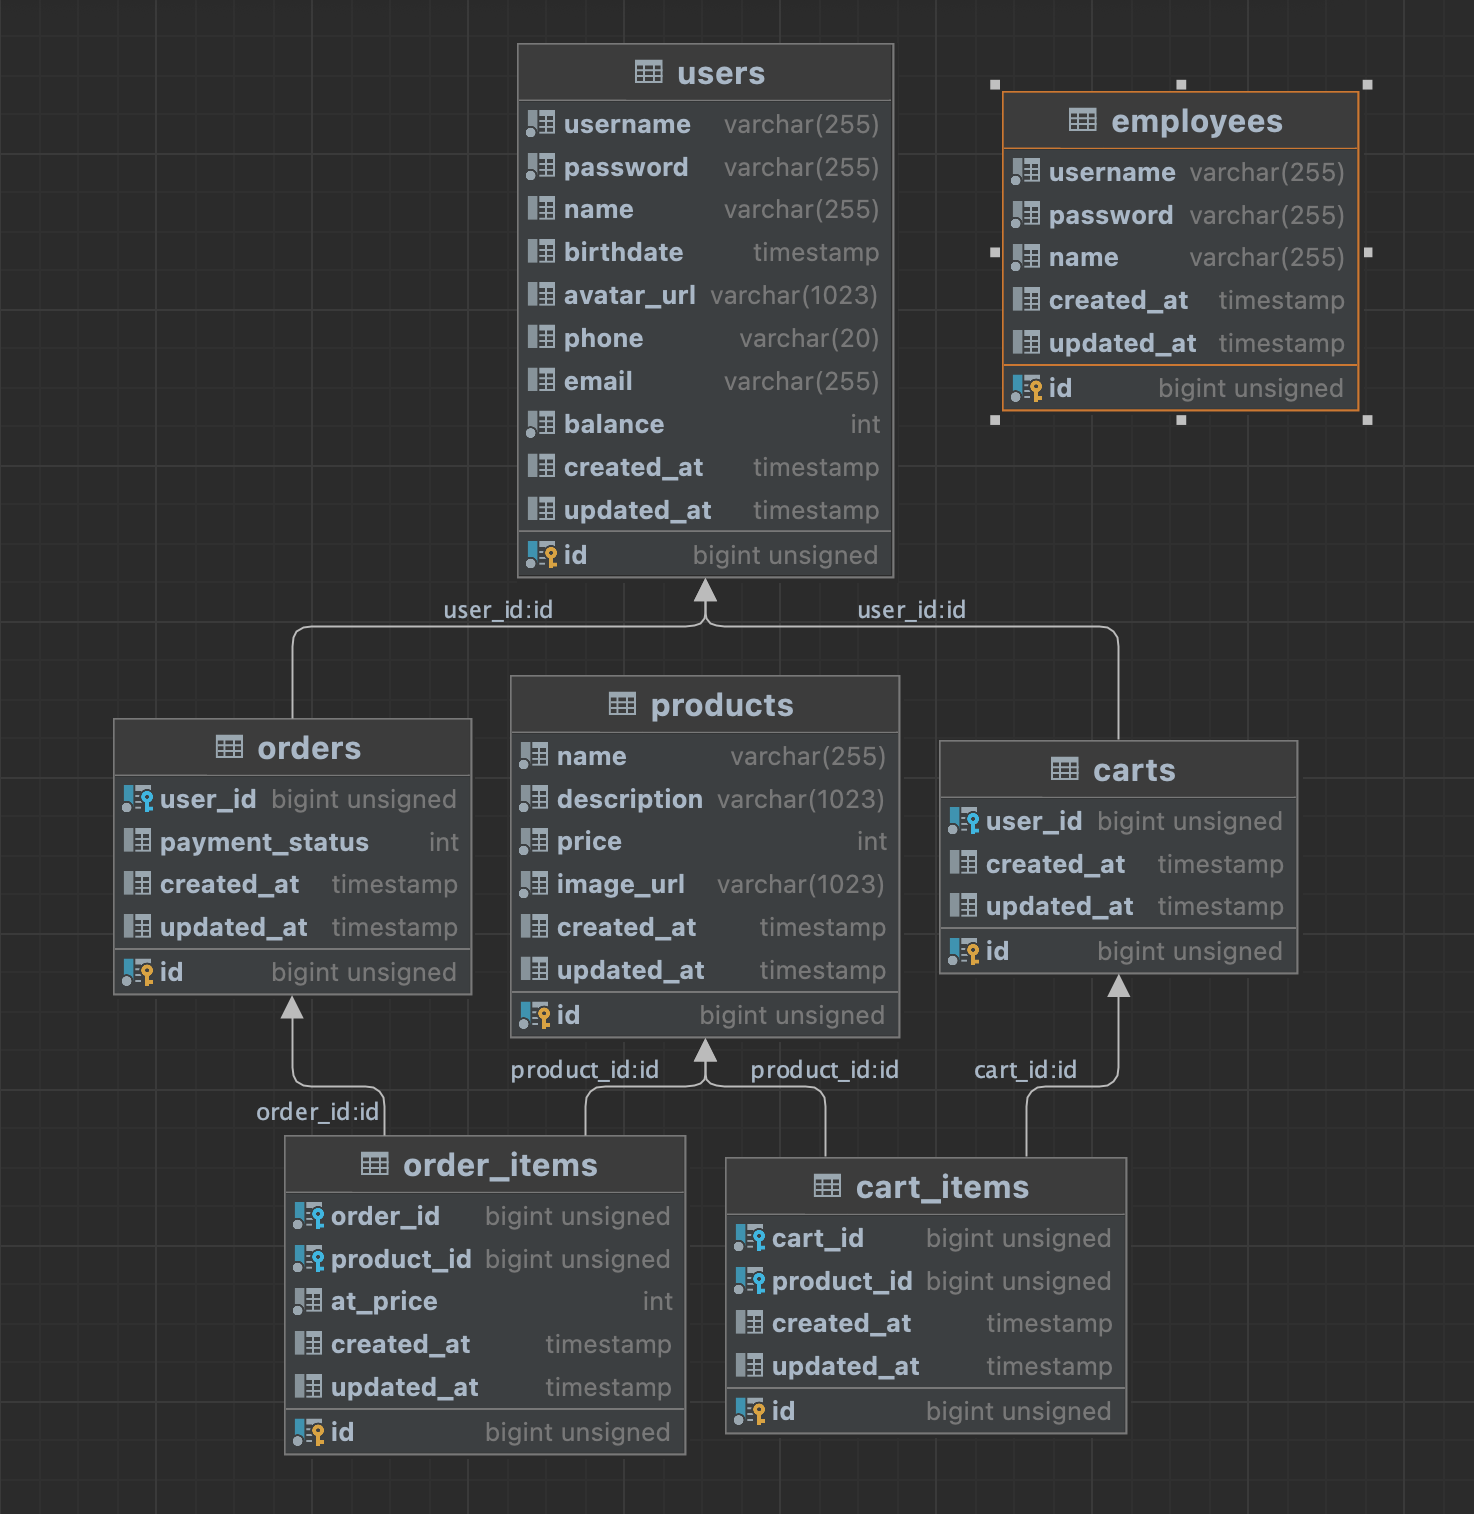
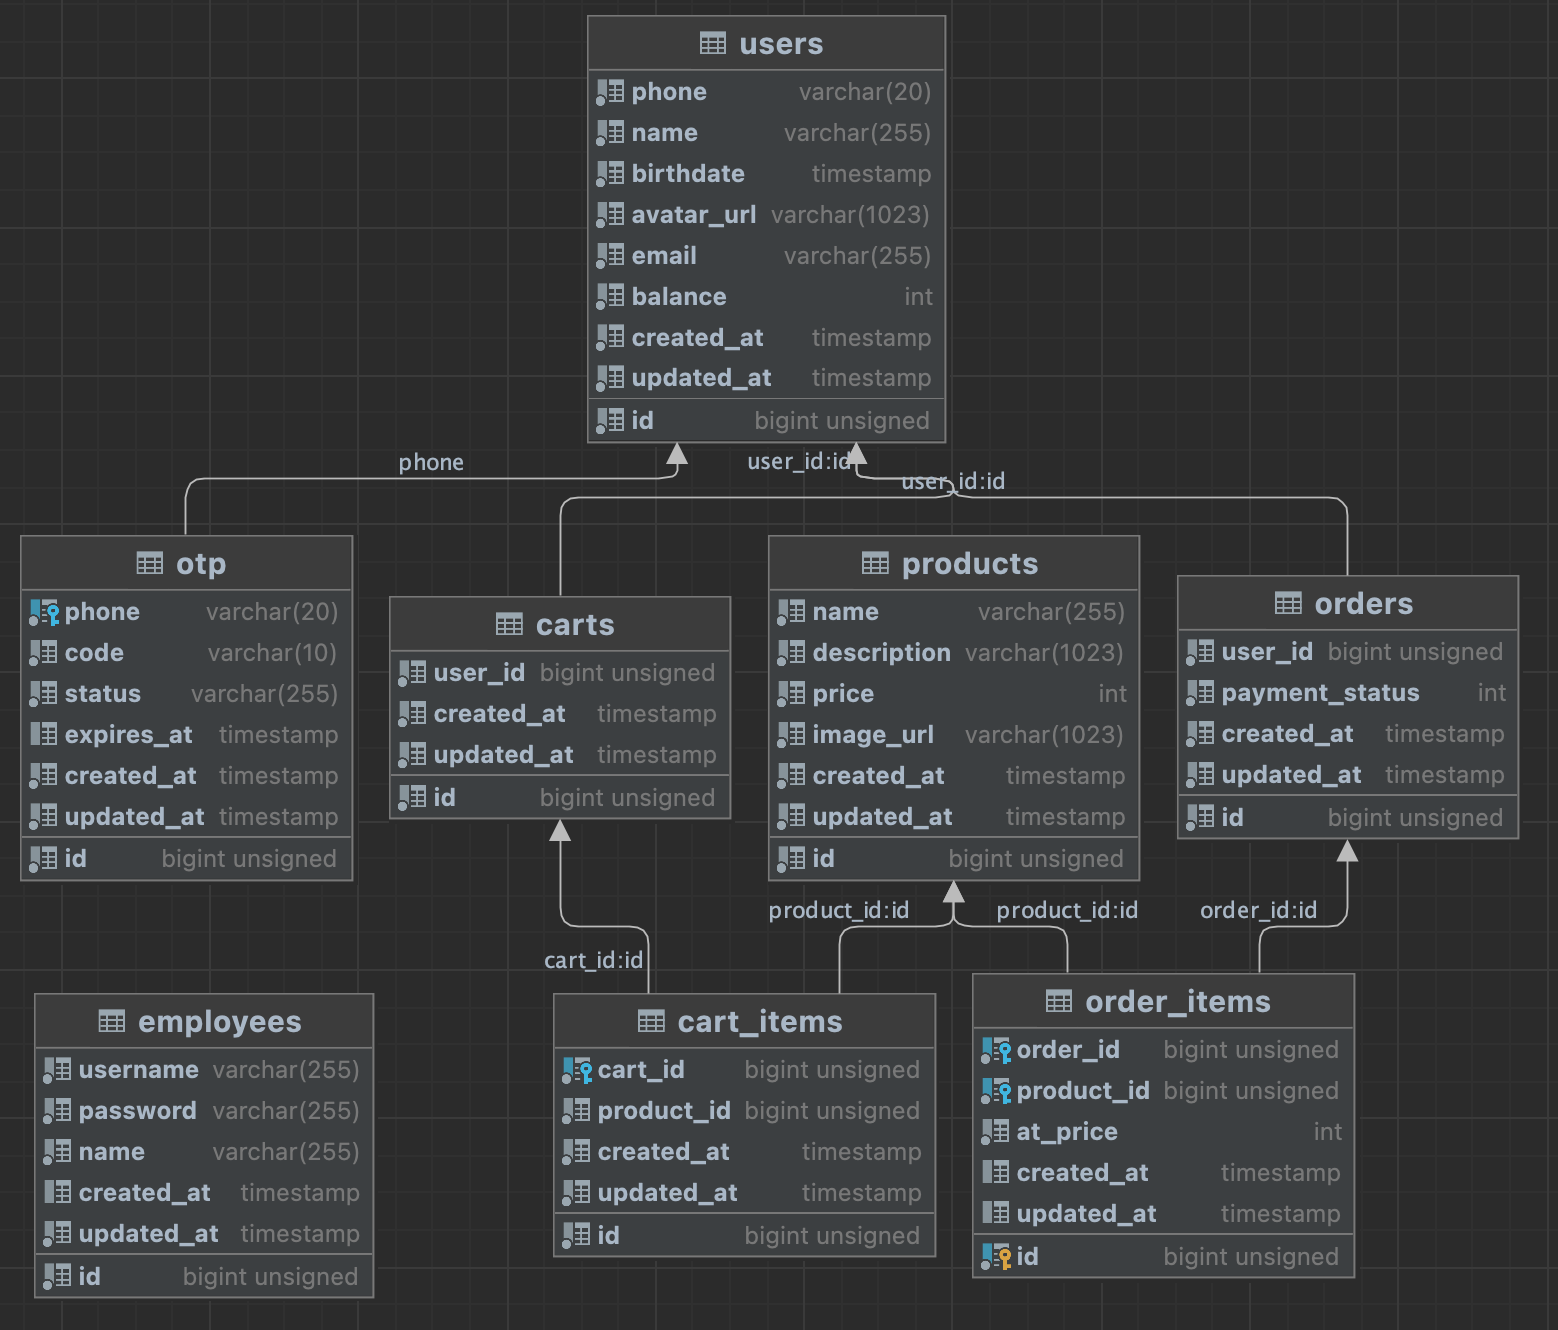
Support login via OTP

Changed region(s): [[0.0, 0.0, 0.9674, 0.9865], [0.6866, 0.0308, 0.9362, 0.2774], [0.2497, 0.3391, 0.3121, 0.3699]]

diff --git a/src/handler/main_test.go b/src/handler/main_test.go
@@ -1,0 +1,30 @@
+package handler
+
+import (
+	"os"
+	"testing"
+
+	"github.com/godev111222333/shoe-backend/src/misc"
+	"github.com/godev111222333/shoe-backend/src/store"
+)
+
+var TestDb *store.DbStore
+
+func TestMain(m *testing.M) {
+	cfg, err := misc.LoadConfig("../../config.yaml")
+	if err != nil {
+		panic(err)
+	}
+
+	initTestDb(cfg.DatabaseConfig)
+	code := m.Run()
+	os.Exit(code)
+}
+
+func initTestDb(cfg *misc.DbConfig) {
+	var err error
+	TestDb, err = store.NewDbStore(cfg)
+	if err != nil {
+		panic(err)
+	}
+}

diff --git a/src/handler/handler.go b/src/handler/handler.go
@@ -1,5 +1,19 @@
 package handler
 
-import "github.com/gin-gonic/gin"
+import (
+	"time"
+
+	"github.com/gin-gonic/gin"
+)
+
+type RegisterUserRequest struct {
+	Username  string
+	Password  string
+	Name      string
+	Birthdate time.Time
+	AvatarURL string
+	Phone     string
+	Email     string
+}
 
 func (s *APIServer) RegisterUser(c *gin.Context) {}
